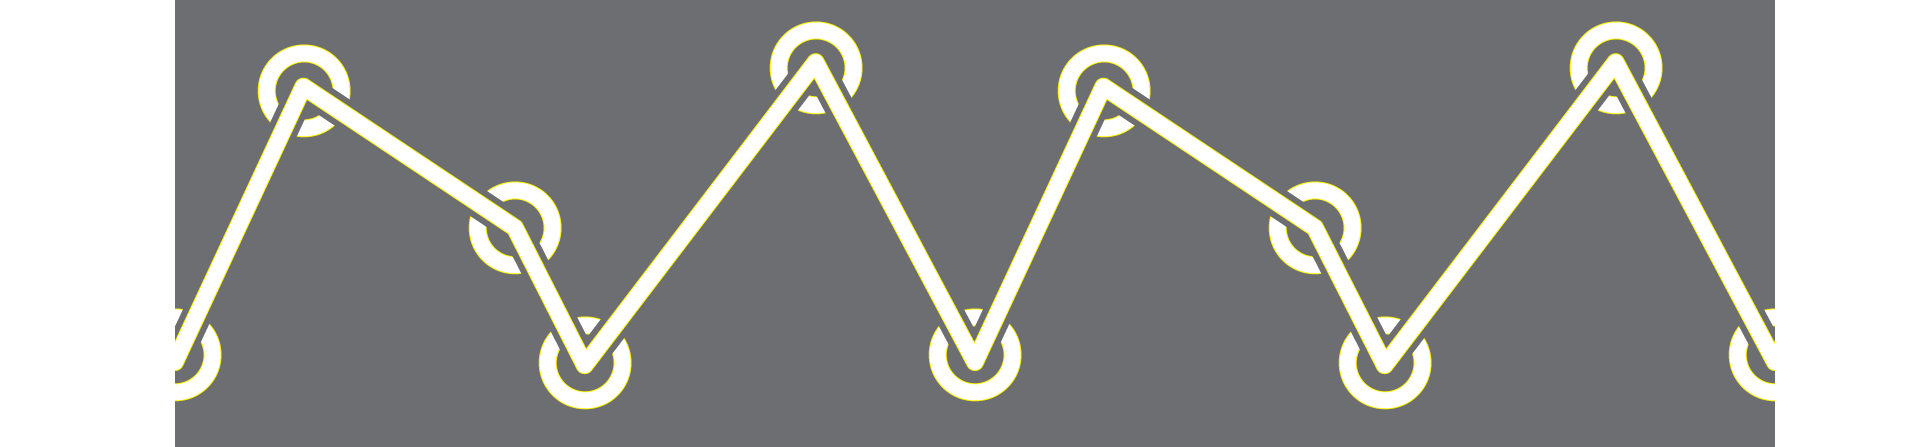
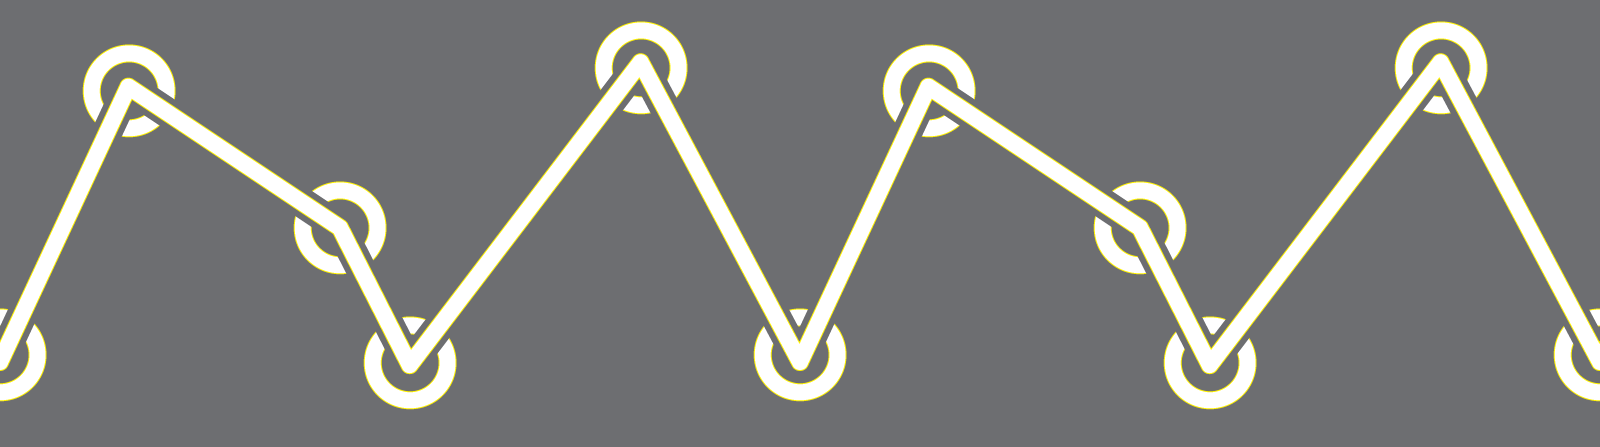
fixed bg scroll to stay consistant edited the image so there would be no dead ends

diff --git a/war/js/gameMenu.js b/war/js/gameMenu.js
@@ -6,14 +6,15 @@ function gameMenu(){
 	//	variant definitions :
 	
 	//background (constants' determination): 
-	var backgroundX = -width;
+	var backgroundX = 0;
 	var bgSpeed = 1;	//going left when positive
 	var barGoingDown = true;
 	var barXDist = 1/10;
 	var barYStep = 1/9;
 	var movingBarYPosition = height*(1-barYStep)
-	var magicNumber = 270;	//it appears that can't be applied in ways we know. Until we get the right parameters, this will do
 	
+	var menuBG_cover_width = width/2;
+	var menuBG_cover_height = height;
 
 	
 //		images :
@@ -44,16 +45,12 @@ function gameMenu(){
 	movingBar.src = "images/GameMainMenu/movingBar.png";
 	movingBar2.src = "images/GameMainMenu/movingBar.png";
 
-	//TODO - resize it right. I don't know how...
-	menuBG.style.width = 2*width;	//twice the width of the canvas
-	menuBG.style.height = height;
-	menuBG_cover.width = width/2;
-	menuBG_cover.height = height;
-	movingBar.style.width = (width/2)*(1-2*barXDist)
-	movingBar.style.height = 'auto';
-	movingBar2.style.width = 30;
-	var movingBarXPosition = magicNumber;	//width-movingBar.width-(barXDist*width/2);
-	var movingBar2XPosition = magicNumber+15;
+		
+	var movingBarXPosition = width-movingBar.width-(barXDist*width/2);
+	var movingBar2XPosition = movingBarXPosition;
+	var movingBar_width = (width/2)*(1-2*barXDist)
+	var movingBar_height = movingBar.height*(movingBar.height/movingBar_width);
+	var movingBar2_width = movingBar_width*0.75;
 	
 //	buttons and misc data :
 	//buttons (for 4 only - TODO: make it flexible)
@@ -134,10 +131,18 @@ function gameMenu(){
 	}
 
 
+	
+//	var menuBG_cover_width = width/2;
+//	var menuBG_cover_height = height;
+//	var movingBarXPosition = width-movingBar.width-(barXDist*width/2);
+//	var movingBar2XPosition = movingBarXPosition;
+//	var movingBar_width = (width/2)*(1-2*barXDist)
+//	var movingBar_height = movingBar.height*(movingBar.height/movingBar_width);
+//	var movingBar2_width = movingBar_width*0.75;
 
 	this.draw = function(){     	
 		context.drawImage(menuBG ,  backgroundX , 0);
-		context.drawImage(menuBG_cover ,  width-menuBG_cover.width , 0);
+		context.drawImage(menuBG_cover ,  width-menuBG_cover_width , 0 , menuBG_cover_width , menuBG_cover_height);
 		context.drawImage(movingBar ,  movingBarXPosition , movingBarYPosition);
 		context.drawImage(movingBar2 ,  movingBar2XPosition , height-movingBarYPosition);
 		
@@ -158,9 +163,9 @@ function gameMenu(){
 	{
 		backgroundX -= bgSpeed;
 
-		if(backgroundX <= -2*width)
+		if(backgroundX <= -menuBG.width/2)	//the middle is similar to the start
 		{
-			backgroundX = -width;
+			backgroundX = 0;
 		}
 		
 		if(barGoingDown){
